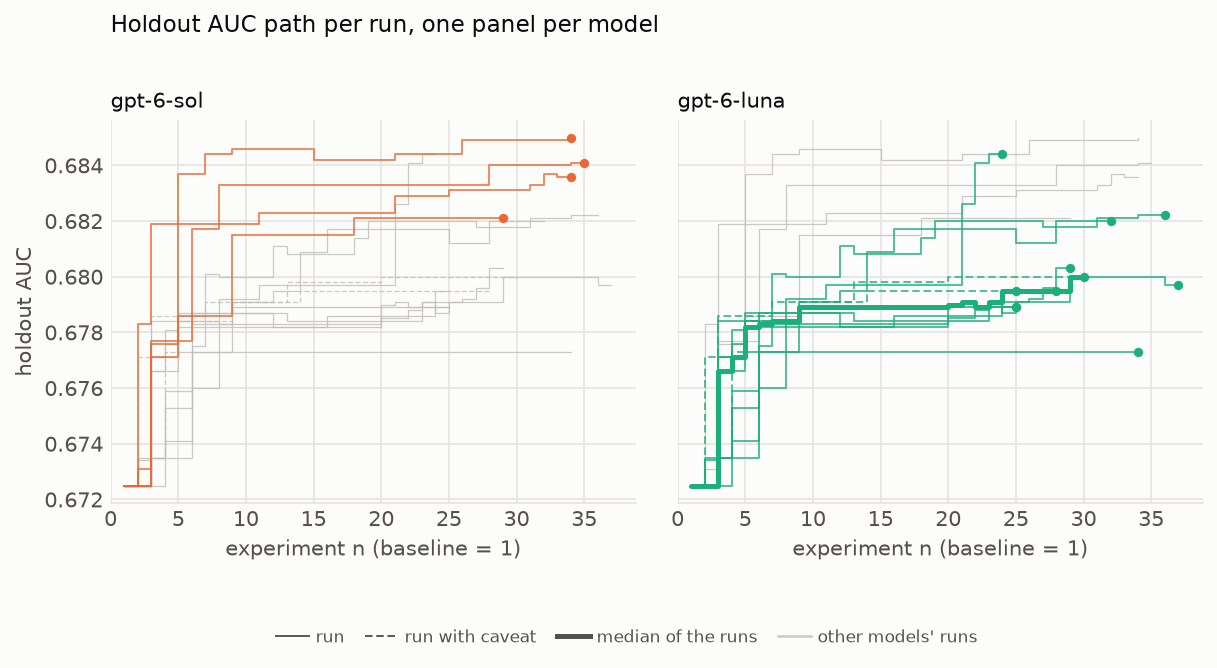
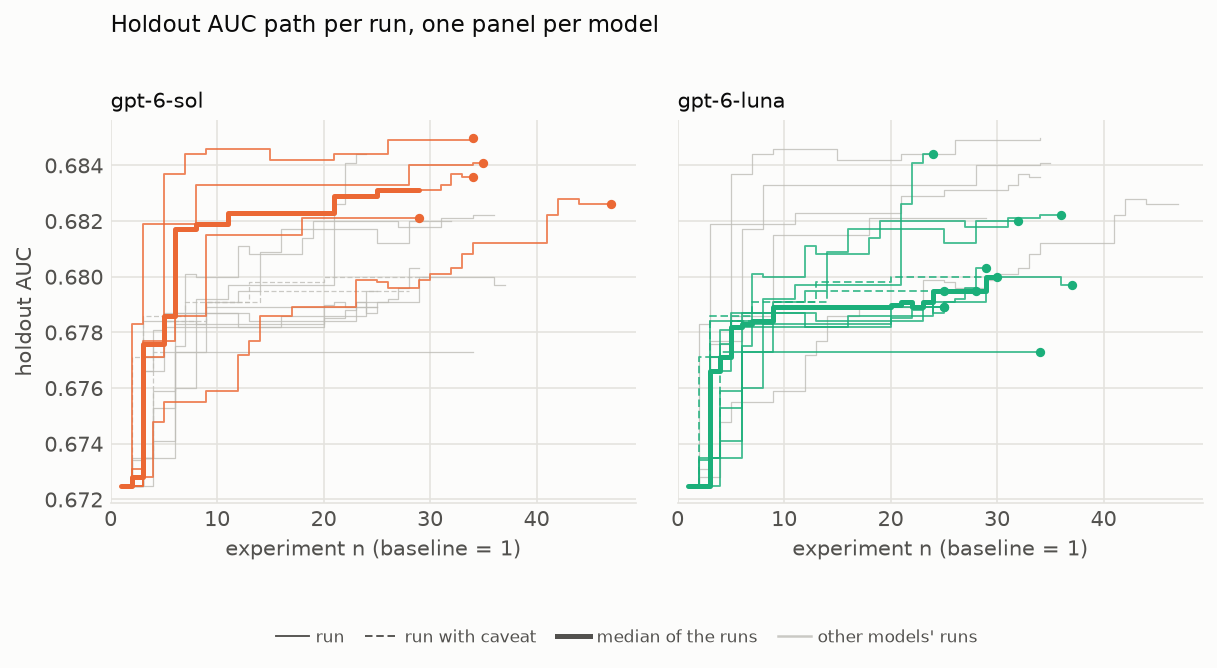
Summary with luna6_n20 runs 1-11 and sol6_n20 runs 1-5
README results block and SUMMARY plots redrawn by /xgb-summary. With five
runs gpt-6-sol now has its interval, percentile marks and median path.

diff --git a/README.md b/README.md
@@ -27,10 +27,10 @@ All runs with codex-cli 0.160.0 at effort max, a 24 GB container memory cap and 
 
 | model | groups | valid runs | excluded | holdout AUC mean | sd | min | median | max |
 |---|---|---|---|---|---|---|---|---|
-| gpt-6-sol | [sol6_n20](run-multi/sol6_n20/results_summary.md) | 4 | 0 | 0.6837 | 0.0012 | 0.6821 | 0.6839 | 0.6850 |
+| gpt-6-sol | [sol6_n20](run-multi/sol6_n20/results_summary.md) | 5 | 0 | 0.6835 | 0.0012 | 0.6821 | 0.6836 | 0.6850 |
 | gpt-6-luna | [luna6_n20](run-multi/luna6_n20/results_summary.md) | 11 (2 with caveat) | 0 | 0.6802 | 0.0019 | 0.6773 | 0.6797 | 0.6844 |
 
-Two runs carry a caveat, both `keep_rule` (commits kept at an equal Eval AUC without being simpler or faster): luna6_n20-6 and luna6_n20-8. No run was excluded. Both groups are in progress: luna6_n20 with 11 and sol6_n20 with 4 of their 20 runs reviewed so far. luna6_n20-1, luna6_n20-7 and luna6_n20-11 are valid with a `train_py_review` flag, a false match explained in their `run.md`. The test group test1 was moved to `archive/` and is not included. All valid runs have the same settings.
+Two runs carry a caveat, both `keep_rule` (commits kept at an equal Eval AUC without being simpler or faster): luna6_n20-6 and luna6_n20-8. No run was excluded. Both groups are in progress: luna6_n20 with 11 and sol6_n20 with 5 of their 20 runs reviewed so far. luna6_n20-1, luna6_n20-7 and luna6_n20-11 are valid with a `train_py_review` flag, a false match explained in their `run.md`. The test group test1 was moved to `archive/` and is not included. All valid runs have the same settings.
 
 ![Holdout AUC per run](run-multi/SUMMARY/holdout_auc_beeswarm.png)
 <!-- xgb-summary: end -->
